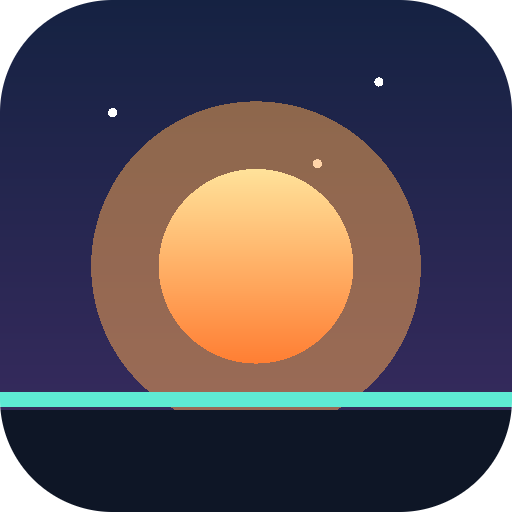
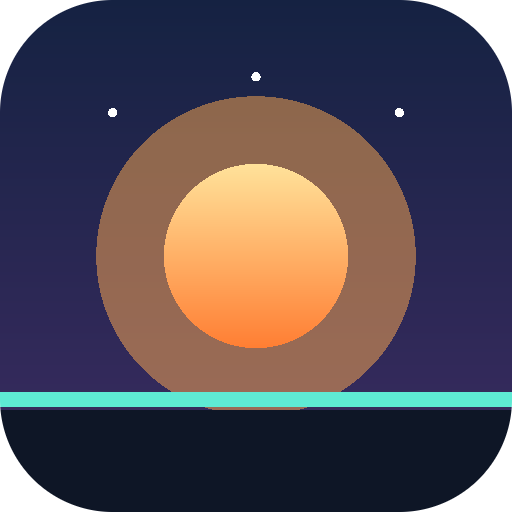
删除 hero 徽章；破晓图标构图修正：太阳移至正中心、星光对称分布

diff --git a/index.html b/index.html
@@ -60,17 +60,11 @@
   }
   /* 页面标题（苹果式居中大标题） */
   .hero { text-align: center; padding: 30px 0 26px; }
-  .hero-badge {
-    display: inline-block; font-size: 10px; font-weight: 600; letter-spacing: .18em; text-transform: uppercase;
-    color: var(--muted); background: var(--card); border: 1px solid rgba(30, 50, 90, .08);
-    padding: 4px 14px; border-radius: 999px; margin-bottom: 14px;
-    box-shadow: 0 1px 4px rgba(30, 50, 90, .05);
-    animation: appleIn .6s cubic-bezier(.2, .8, .2, 1) both;
-  }
   .logo-badge {
     width: 60px; height: 60px; border-radius: 15px; margin-bottom: 14px;
     box-shadow: 0 4px 14px rgba(0, 0, 0, .1);
     animation: appleIn .6s cubic-bezier(.2, .8, .2, 1) both;
+    display: block; margin-left: auto; margin-right: auto;
   }
   .hero h2 { font-size: 40px; font-weight: 600; margin: 0 0 8px; display: flex; align-items: center; justify-content: center; gap: 14px; }
   /* 朝夕文字 logo：笔画创意 —— 字体保持黑色，图形元素叠在笔画上 */
@@ -438,7 +432,6 @@
 <main>
   <!-- 页面标题 -->
   <section class="hero">
-    <div class="hero-badge">Daily Cost · 自用</div>
     <img src="icon-192.png" alt="朝夕" class="logo-badge">
     <svg class="logo-svg" viewBox="0 -36 260 156" role="img" aria-label="朝夕">
       <text x="30" y="88" font-size="84" class="char-m">朝</text>

diff --git a/gen_icon.py b/gen_icon.py
@@ -34,10 +34,10 @@ def alpha_from(d):
 
 def make_icon(size):
     px = bytearray()
-    cx_sun, cy_sun, r_sun = size * 0.5, size * 0.52, size * 0.19
+    cx_sun, cy_sun, r_sun = size * 0.5, size * 0.50, size * 0.18
     glow_w = size * 0.11
-    # 星光：三颗小白点
-    stars = [(0.22, 0.22), (0.74, 0.16), (0.62, 0.32)]
+    # 星光：三颗小白点（对称分布）
+    stars = [(0.22, 0.22), (0.78, 0.22), (0.5, 0.15)]
     for y in range(size):
         px.append(0)
         for x in range(size):
